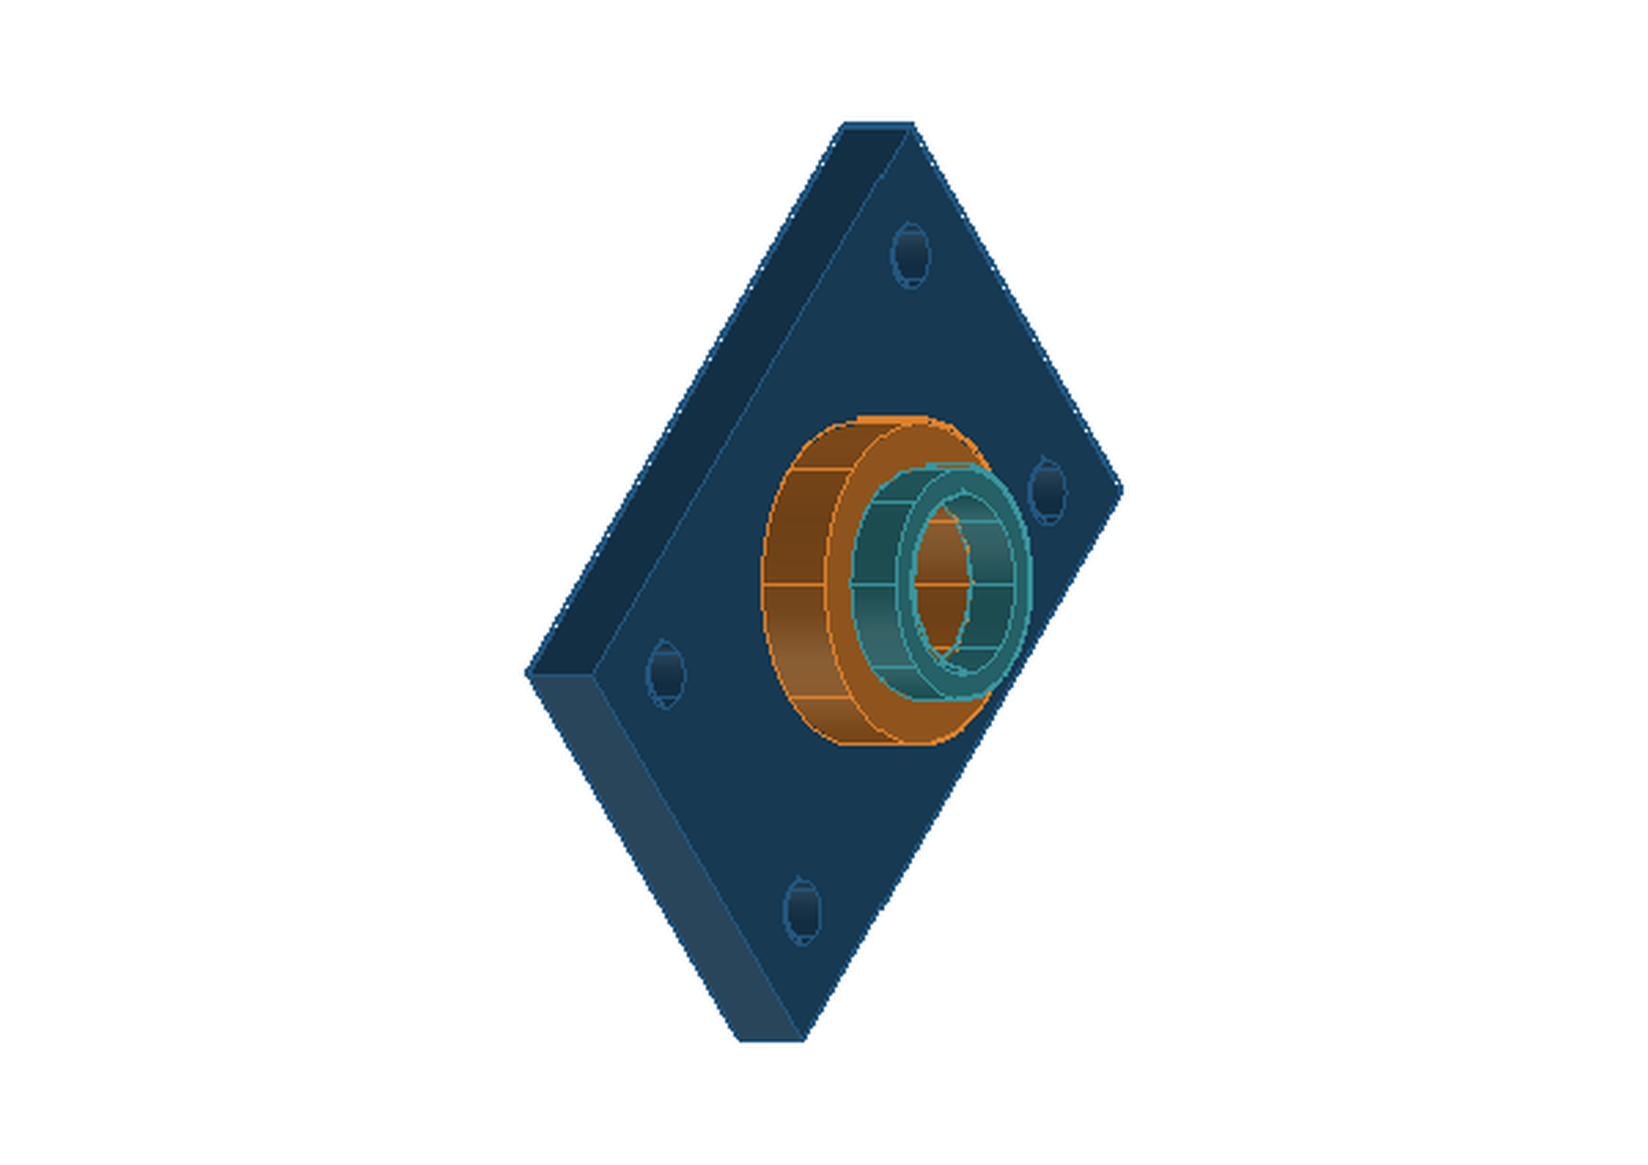
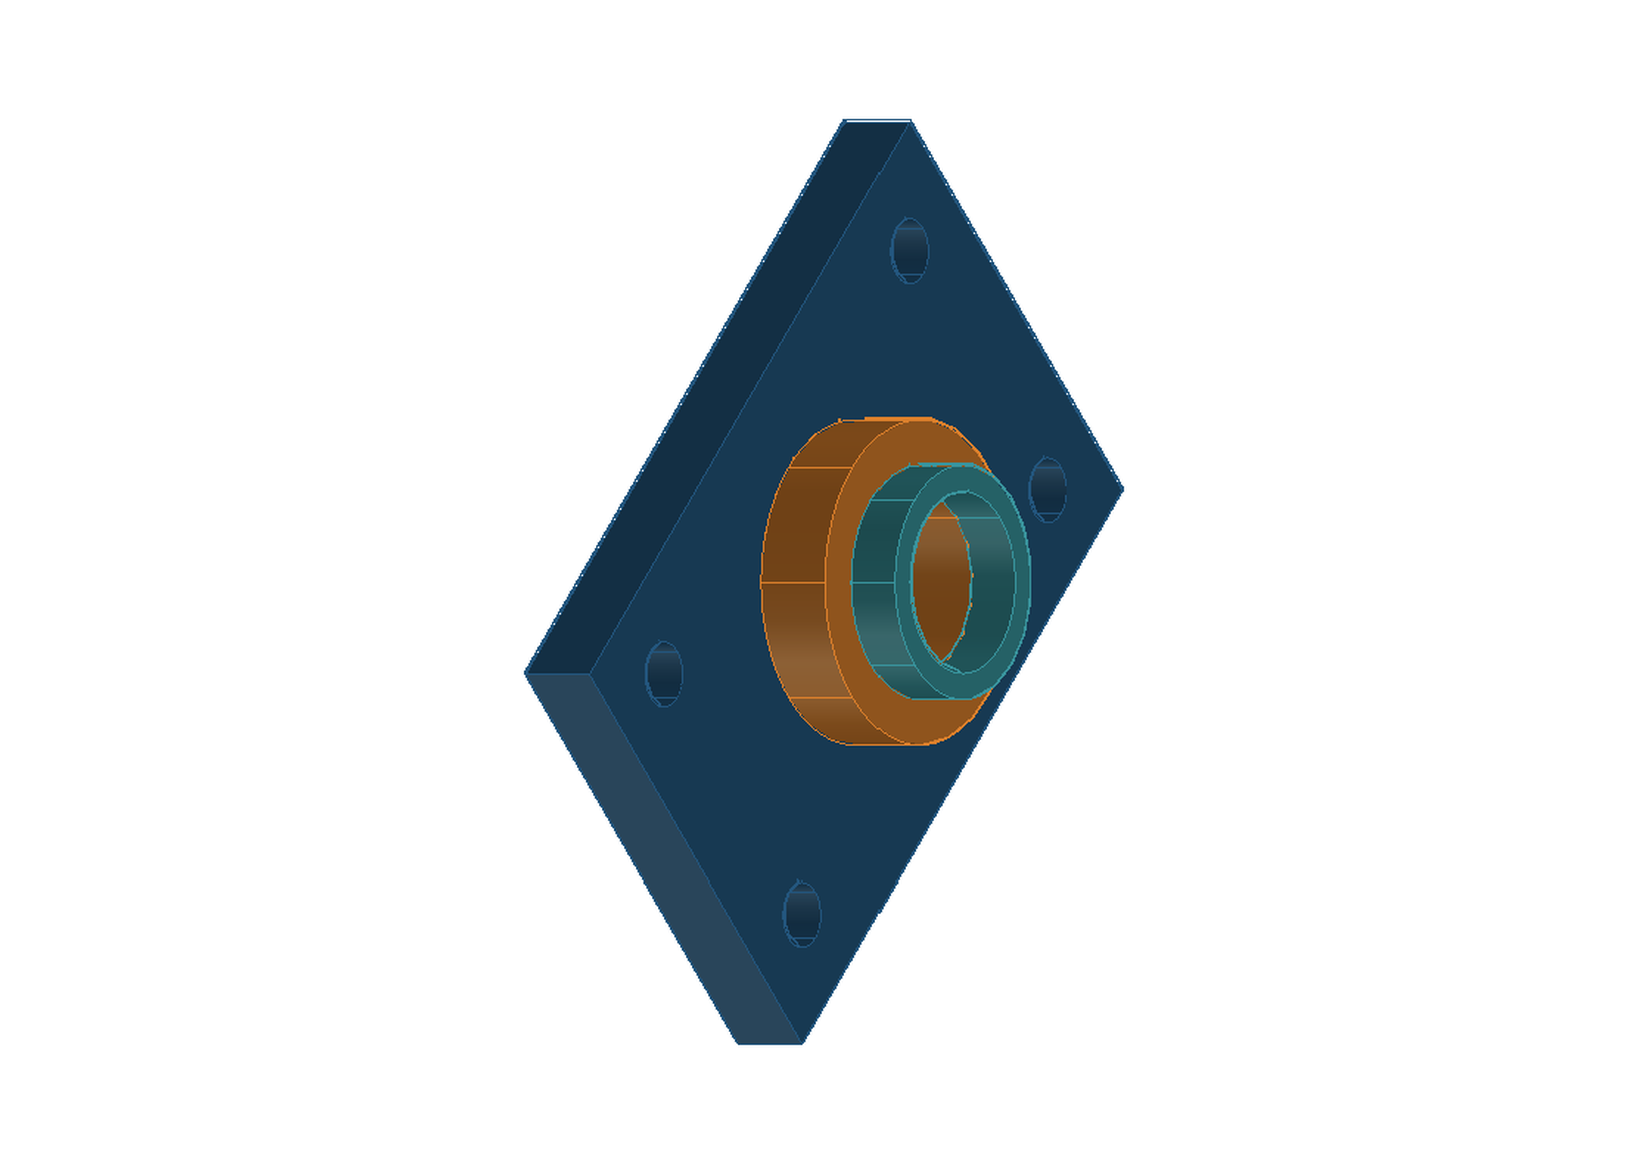
Add foreground CAD recording mode

diff --git a/examples/generate_showcase.py b/examples/generate_showcase.py
@@ -8,7 +8,7 @@ import os
 from pathlib import Path
 
 
-async def main(output: Path) -> None:
+async def main(output: Path, *, pause: float = 0.0, keep_open: bool = False) -> None:
     import pythoncom
     import win32com.client
 
@@ -30,10 +30,15 @@ async def main(output: Path) -> None:
         raise RuntimeError(created_document.to_dict() if created_document else "no result")
     document = win32com.client.GetActiveObject("AutoCAD.Application").ActiveDocument
     try:
+        async def recording_pause() -> None:
+            if pause > 0:
+                await asyncio.sleep(pause)
+
         async def require(operation, *args):
             result = await operation(*args)
             if not result.ok:
                 raise RuntimeError(result.to_dict())
+            await recording_pause()
             return result.payload["handle"]
 
         # A native machined bearing plate: every hole is a real B-rep subtraction.
@@ -68,6 +73,7 @@ async def main(output: Path) -> None:
             )
             if not result.ok or result.payload.get("diff"):
                 raise RuntimeError(result.to_dict())
+            await recording_pause()
             return result.payload["handle"]
 
         boss = await create_ring("BOSS", [0, 0, 18], 25, 12)
@@ -101,13 +107,16 @@ async def main(output: Path) -> None:
         if not rendered.ok:
             raise RuntimeError(rendered.to_dict())
     finally:
-        try:
-            active = win32com.client.GetActiveObject("AutoCAD.Application").ActiveDocument
-            active.SendCommand("_.VSCURRENT _2dwireframe ")
-            backend._wait_for_autocad_idle(timeout=5.0)
-            active.Close(False)
-        except Exception:
-            pass
+        if keep_open:
+            print("Recording complete; AutoCAD document left open.")
+        else:
+            try:
+                active = win32com.client.GetActiveObject("AutoCAD.Application").ActiveDocument
+                active.SendCommand("_.VSCURRENT _2dwireframe ")
+                backend._wait_for_autocad_idle(timeout=5.0)
+                active.Close(False)
+            except Exception:
+                pass
 
 
 if __name__ == "__main__":
@@ -116,7 +125,34 @@ if __name__ == "__main__":
         "--output",
         default=str(Path(__file__).parents[1] / "docs" / "assets" / "autocad-mcp-showcase.png"),
     )
+    parser.add_argument(
+        "--record",
+        action="store_true",
+        help="show AutoCAD in the foreground, pause between steps, and leave the final document open",
+    )
+    parser.add_argument(
+        "--pause",
+        type=float,
+        default=None,
+        help="seconds to pause after each created or modified solid",
+    )
+    parser.add_argument(
+        "--keep-open",
+        action="store_true",
+        help="leave the generated AutoCAD document open after rendering",
+    )
     args = parser.parse_args()
-    os.environ.setdefault("AUTOCAD_MCP_WINDOW_MODE", "minimized")
-    os.environ.setdefault("AUTOCAD_MCP_ACTIVATE_ON_DRAW", "false")
-    asyncio.run(main(Path(args.output)))
+    if args.record:
+        os.environ["AUTOCAD_MCP_WINDOW_MODE"] = "foreground"
+        os.environ["AUTOCAD_MCP_ACTIVATE_ON_DRAW"] = "true"
+    else:
+        os.environ.setdefault("AUTOCAD_MCP_WINDOW_MODE", "minimized")
+        os.environ.setdefault("AUTOCAD_MCP_ACTIVATE_ON_DRAW", "false")
+    pause = args.pause if args.pause is not None else (1.5 if args.record else 0.0)
+    asyncio.run(
+        main(
+            Path(args.output),
+            pause=max(0.0, pause),
+            keep_open=args.keep_open or args.record,
+        )
+    )